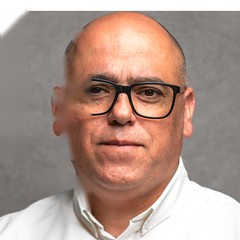
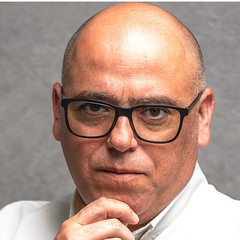
Marriott International e retrato do Nuno sem corte
- Thierry Henrot passa a aparecer como Marriott International nos três
  sítios (prova da hero, alt e nome do vídeo-testemunho), a par do ticker.
- O avatar do Nuno vinha do _DSC3240, que não tem espaço acima da cabeça:
  o recorte batia no topo da foto e cortava-lhe o crânio. Medi as sete
  fotos dele e passei para o _DSC3237, que tem folga e fundo cinzento
  uniforme.

diff --git a/10reunioes/index.html b/10reunioes/index.html
@@ -590,7 +590,7 @@ window.vloomFb={
       <div>
         <span class="st">★★★★★</span>
         <p>“Trabalhar com a Vloom é diferente de trabalhar com outras agências: funciona maravilhosamente bem.”</p>
-        <span class="quem">Thierry Henrot · Sheraton Lisboa</span>
+        <span class="quem">Thierry Henrot · Marriott International</span>
       </div>
     </div>
 
@@ -756,10 +756,10 @@ window.vloomFb={
       </div>
       <div class="dep" data-vimeo="817389061">
         <button class="tv-play" style="--pt:url('assets/caras/thierry-poster.jpg')" type="button" aria-label="Reproduzir depoimento de Thierry Henrot">
-          <img src="assets/caras/thierry-poster.jpg" alt="Thierry Henrot, Sheraton Hotels" loading="lazy">
+          <img src="assets/caras/thierry-poster.jpg" alt="Thierry Henrot, Marriott International" loading="lazy">
           <span class="tv-bt"><svg width="18" height="21" viewBox="0 0 26 30" fill="none"><path d="M3 2.5 23.5 15 3 27.5V2.5Z" fill="currentColor" stroke="currentColor" stroke-width="3.5" stroke-linejoin="round"/></svg></span>
         </button>
-        <div class="nome"><b>Thierry Henrot,</b><b>Sheraton Hotels</b></div>
+        <div class="nome"><b>Thierry Henrot,</b><b>Marriott International</b></div>
         <p class="cit">Trabalhar com a Vloom é diferente de trabalhar com outras agências: funciona maravilhosamente bem.</p>
         <div class="res">Engajamento a dobrar e 3,6 milhões de pessoas alcançadas</div>
       </div>
